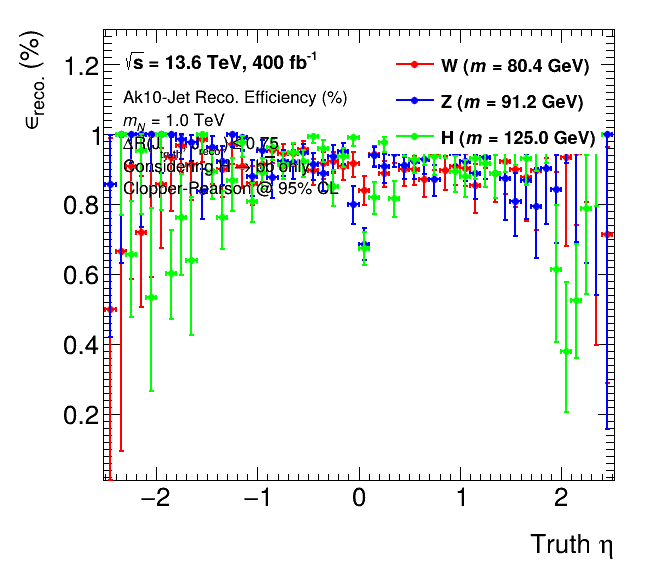
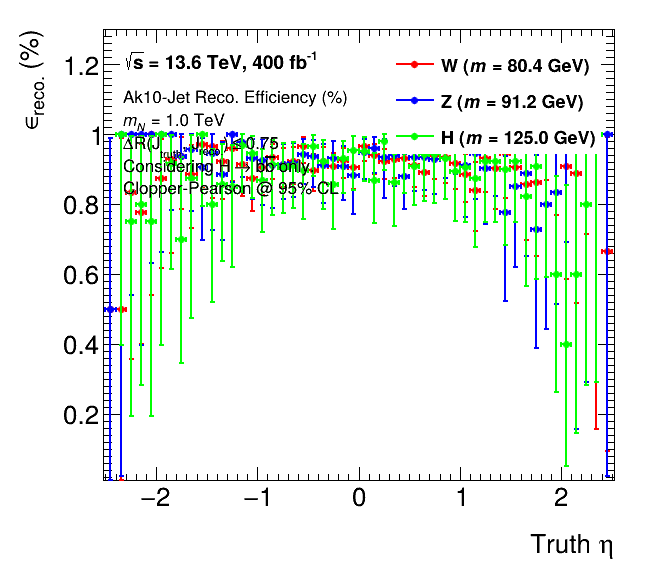
Request Clopper-Pearson at 95% CL explicitly for efficiency error bands and refresh results

diff --git a/fatjet_reconstruction_rate_v6.py b/fatjet_reconstruction_rate_v6.py
@@ -297,7 +297,7 @@ def calc_and_plot(tree, verbose=False):
                 print(f"No {name} bosons found.")
 
         eff_hist = ROOT.TEfficiency(h_mat, h_tot)
-        # eff_hist.SetStatisticOption(ROOT.TEfficiency.kFCP)
+        eff_hist.SetStatisticOption(ROOT.TEfficiency.kFCP)
         eff_hist.SetConfidenceLevel(0.95)
         eff_hist.SetMarkerStyle(20)
         eff_hist.SetMarkerSize(0.8)
@@ -309,7 +309,7 @@ def calc_and_plot(tree, verbose=False):
 
         if first:
             eff_hist.SetTitle("Reconstruction efficiency; Truth p_{T} [GeV]; #epsilon_{reco.} (%)")
-            eff_hist.Draw("e1")
+            eff_hist.Draw("AP")
             ROOT.gPad.Update()
             eff_hist.GetPaintedGraph().SetMaximum(1.4)
             eff_hist.GetPaintedGraph().GetXaxis().SetRangeUser(0, 2000)
@@ -317,7 +317,7 @@ def calc_and_plot(tree, verbose=False):
             eff_hist.GetPaintedGraph().GetYaxis().SetNdivisions(1010, True)
             first = False
         else:
-            eff_hist.Draw("same e1")
+            eff_hist.Draw("same P")
 
     label = ROOT.TLatex()
     label.SetNDC()
@@ -366,7 +366,7 @@ def calc_and_plot(tree, verbose=False):
                 print(f"Total: {total:.1f} {name} bosons, {matched:.1f} matched, {matched/total*100:.2f}%")
 
         eff_hist = ROOT.TEfficiency(h_mat, h_tot)
-        # eff_hist.SetStatisticOption(ROOT.TEfficiency.kFCP)
+        eff_hist.SetStatisticOption(ROOT.TEfficiency.kFCP)
         eff_hist.SetConfidenceLevel(0.95)
         eff_hist.SetMarkerStyle(20)
         eff_hist.SetMarkerSize(0.8)
